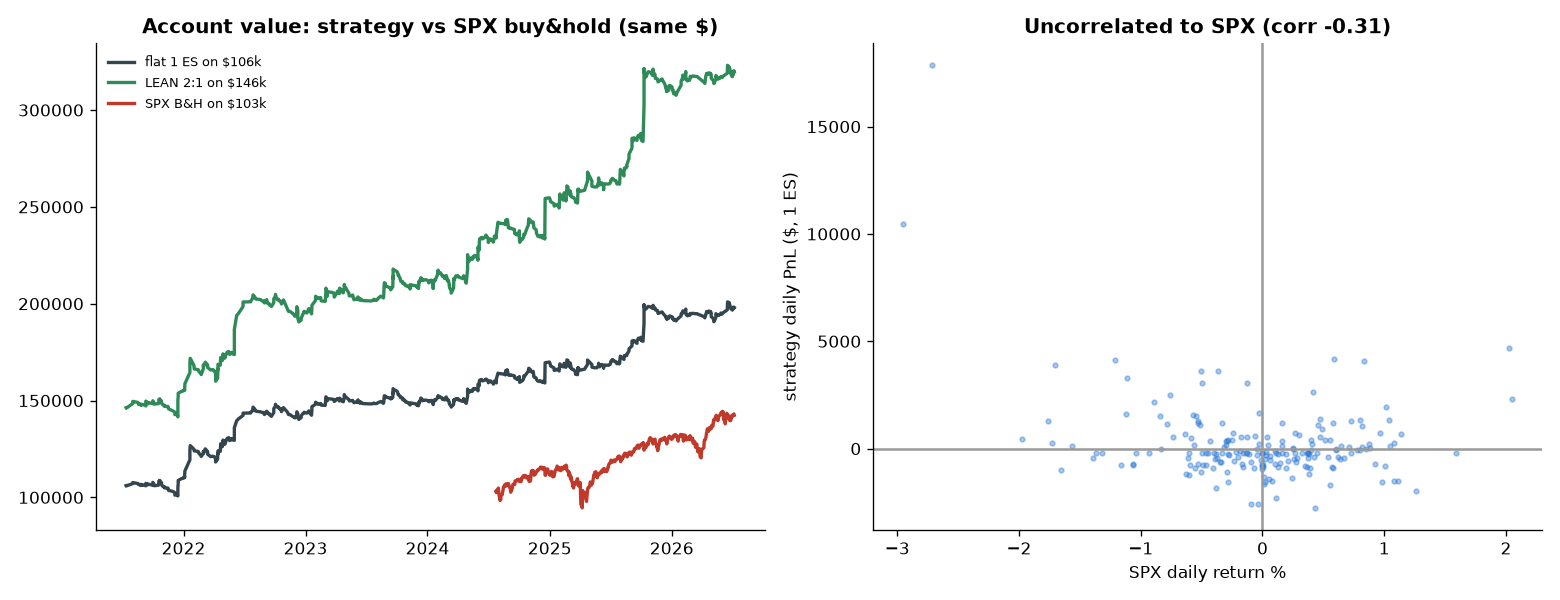
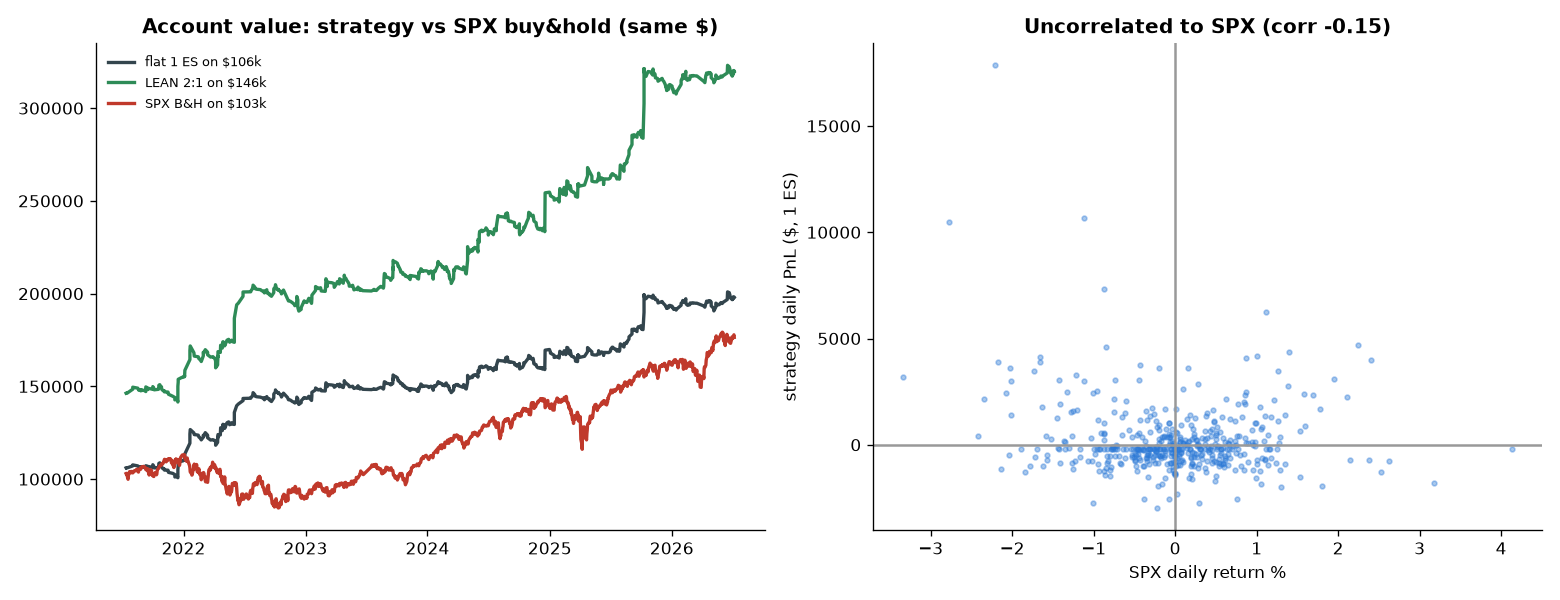
fix(S83): correct vs-SPX comparison — yahoo file was only 2yr, understated SPX badly
Samir caught it: spx_daily_yahoo.csv spans only 2024-07..2026-07, so prior run measured SPX over
2yr (+38%) vs strategy's 5yr — invalid. Switched to full-history v2 spot: SPX 4374->7490 = +71%
price / +83% total-ret (w/ ~1.3%/yr divs) / 12.8% CAGR / -25% maxDD. Corrected verdict: flat-1 ES
TIES SPX (+89% vs +83%, edge only +$6.3k on $104k); LEAN 2:1 beats by ~$49k (+115%). Strategy's
real edge is RISK not return: -9% realized DD vs SPX -25%, corr -0.15 -> diversifier runnable
alongside SPX, roughly index-parity as a standalone over this bull.

diff --git a/scripts/regime_2e_vs_spx.py b/scripts/regime_2e_vs_spx.py
@@ -33,16 +33,20 @@ med = d.absdist.median(); d["near"] = d.absdist <= med
 d0, d1 = d.Date.min(), d.Date.max()
 yrs = (pd.to_datetime(d1) - pd.to_datetime(d0)).days / 365.25
 
-# SPX daily close over the exact period
-spx = pd.read_csv(MAIN / "data" / "options_sim" / "spx_daily_yahoo.csv")
-spx["dt"] = pd.to_datetime(spx.Date).dt.date.astype(str)
+# SPX daily close over the exact period — use FULL-HISTORY v2 spot (yahoo file is only 2yr!)
+DIV = 0.013                                       # ~1.3%/yr SPX dividend yield (total-return adj)
+spx = pd.read_csv(MAIN / "data" / "regime" / "mq_regime_daily_2007_2026_v2.csv")
+spx["dt"] = pd.to_datetime(spx.date).dt.date.astype(str)
 spx = spx[(spx.dt >= d0) & (spx.dt <= d1)].sort_values("dt").reset_index(drop=True)
+spx = spx.rename(columns={"spot": "Close"})
 p0, p1 = spx.Close.iloc[0], spx.Close.iloc[-1]
-spx_tot = p1/p0 - 1; spx_cagr = (p1/p0)**(1/yrs) - 1
-sp_eq = spx.Close.values / p0                     # normalized equity path
+spx_tot = (p1/p0) * (1+DIV)**yrs - 1              # total return incl dividends
+spx_cagr = (1+spx_tot)**(1/yrs) - 1
+sp_eq = spx.Close.values / p0                     # normalized equity path (price)
 sp_ddpct = float((sp_eq/np.maximum.accumulate(sp_eq) - 1).min())
 print(f"period {d0} -> {d1}  ({yrs:.2f} yrs)")
-print(f"SPX buy&hold: {p0:.0f} -> {p1:.0f}  total {spx_tot*100:+.0f}%  CAGR {spx_cagr*100:+.1f}%  maxDD {sp_ddpct*100:.0f}%\n")
+print(f"SPX buy&hold (v2 spot, incl ~{DIV*100:.1f}%/yr divs): {p0:.0f} -> {p1:.0f}  "
+      f"price {(p1/p0-1)*100:+.0f}%  total-ret {spx_tot*100:+.0f}%  CAGR {spx_cagr*100:+.1f}%  maxDD {sp_ddpct*100:.0f}%\n")
 
 SCH = {"flat 1 ES": np.ones(len(d)), "LEAN 2:1": np.where(d.near, 2, 1), "flat 2 ES": np.full(len(d), 2)}
 print(f"{'scheme':11}{'acct@33%':>10}{'5yr net':>10}{'totRet%':>9}{'CAGR*':>8}{'maxDD$':>9}{'maxDD%':>8}"
